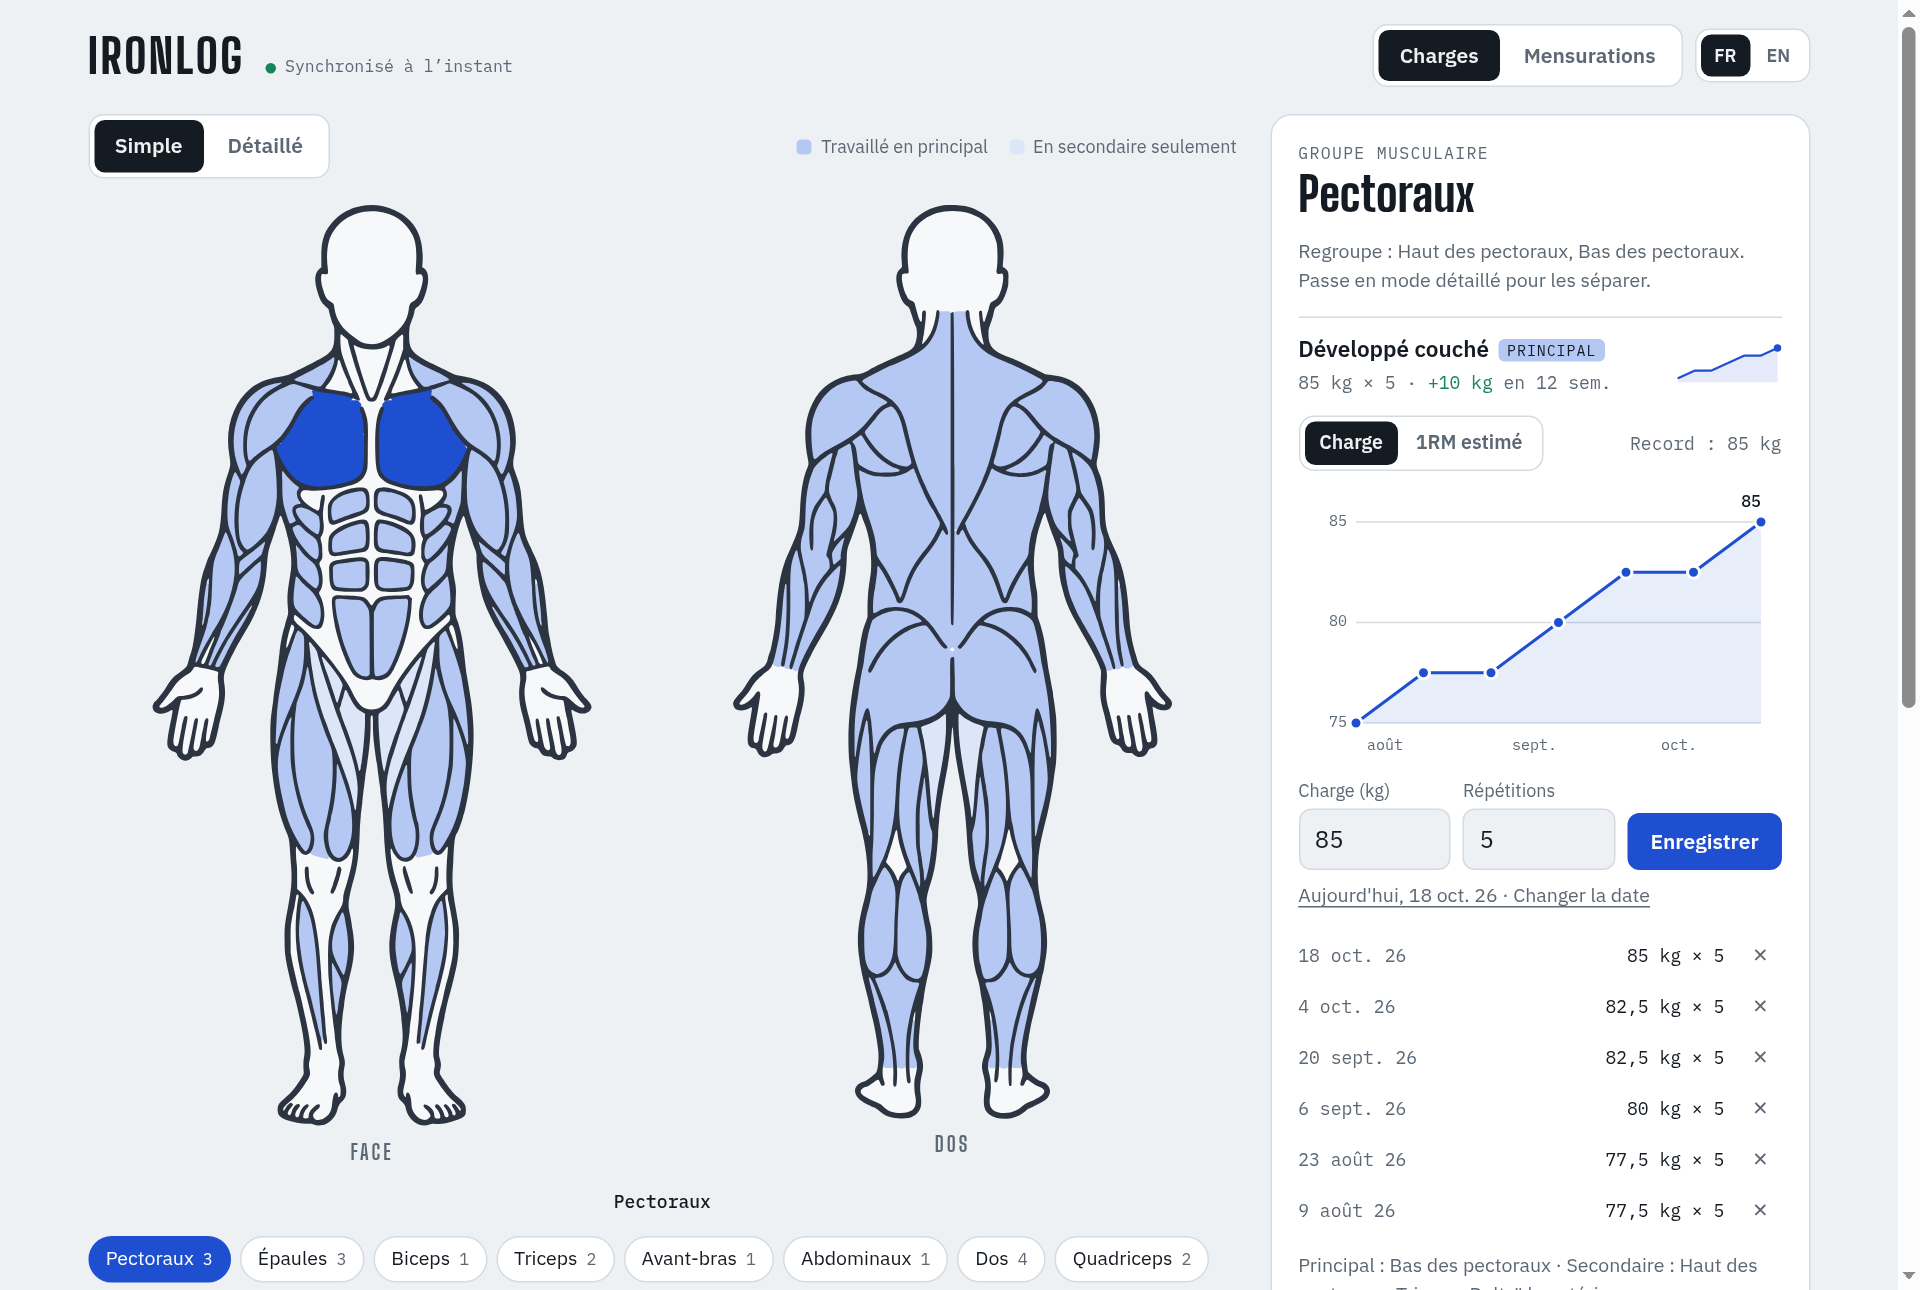
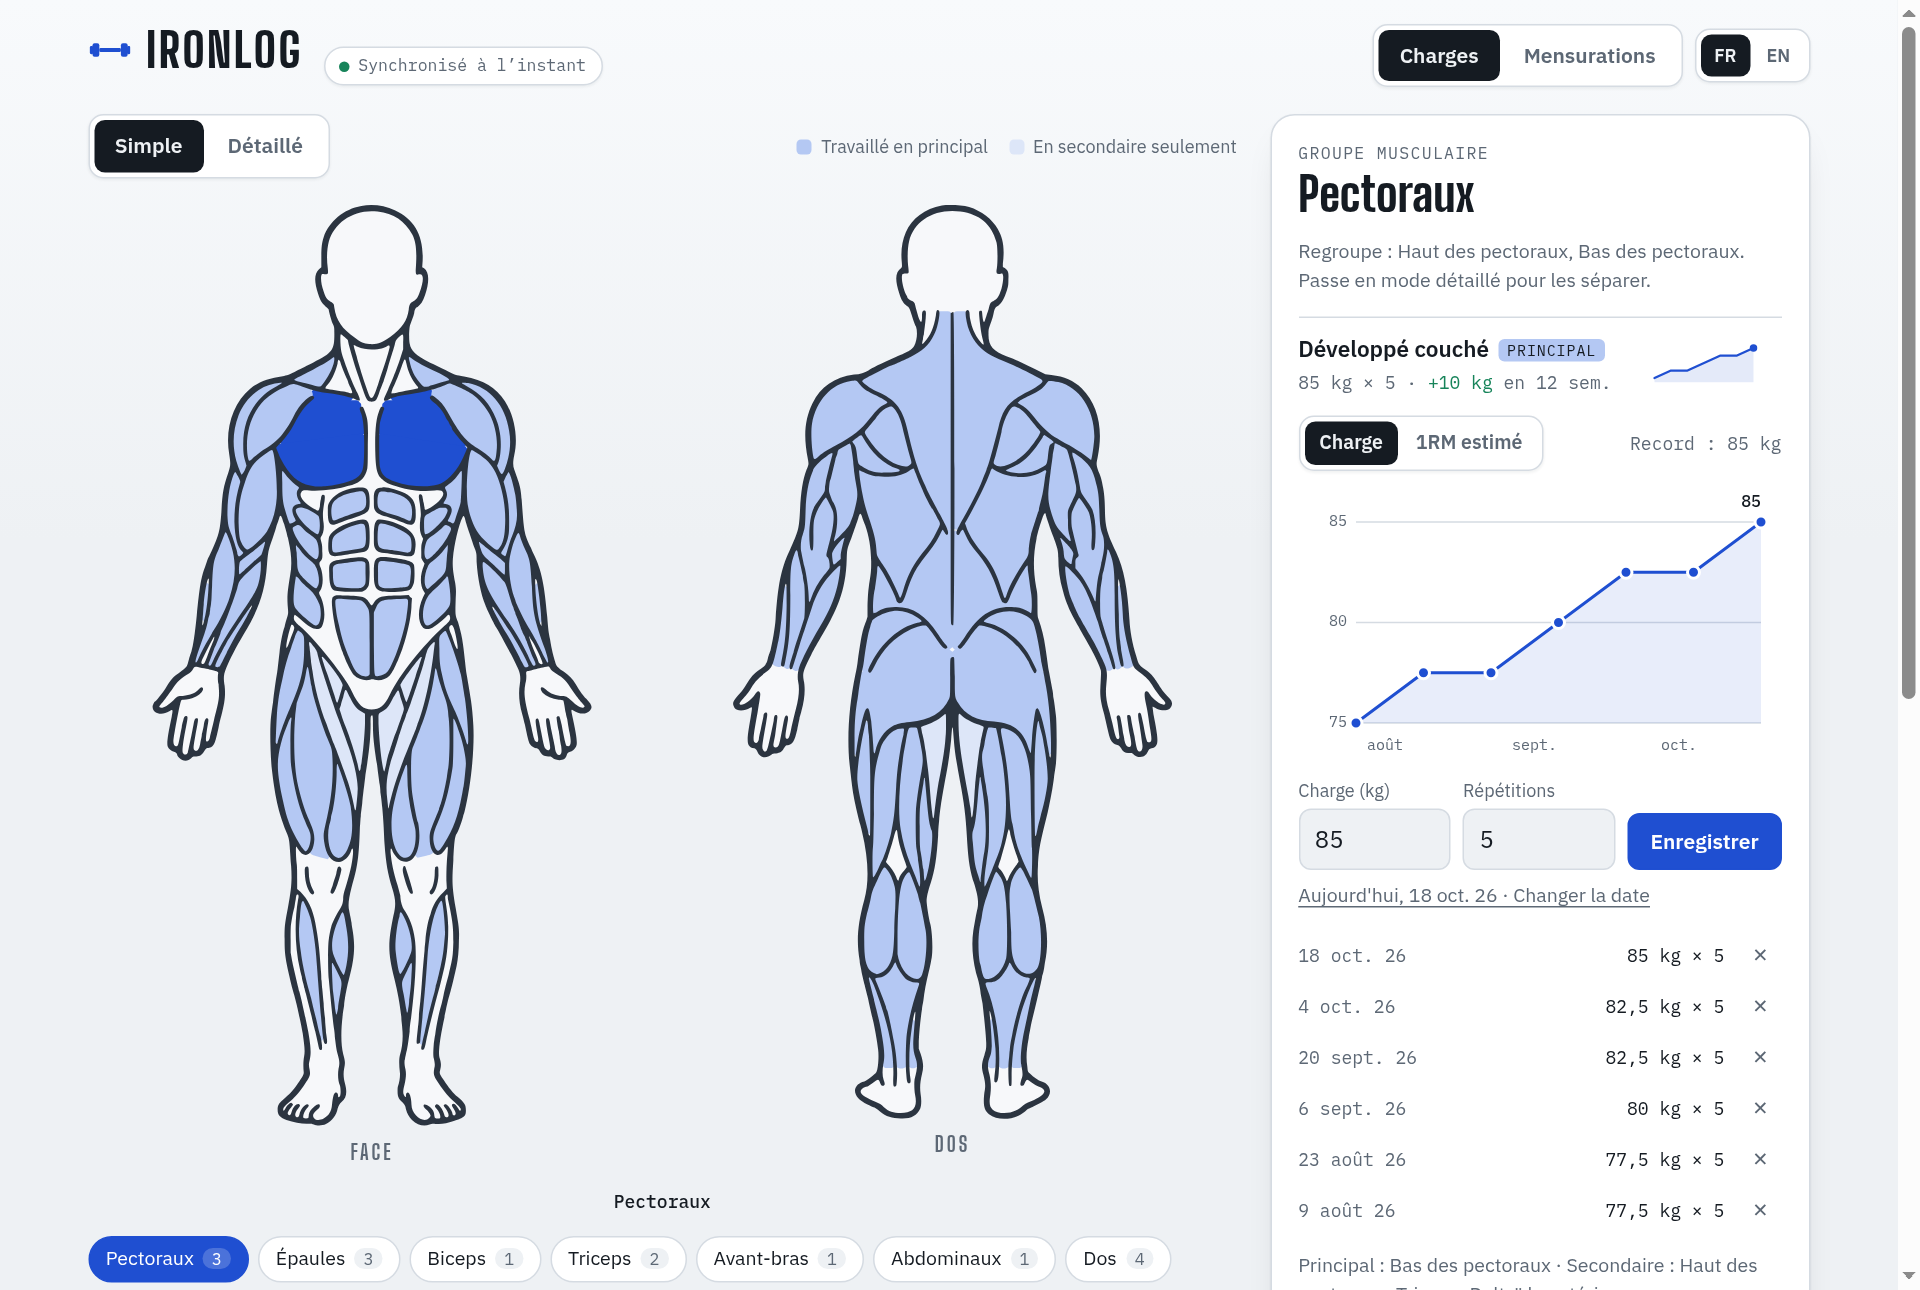
Interface : retouches visuelles, captures et visite animée
- Logo dans l'en-tête, pastille de synchronisation, compteurs en pastilles
- Ombres douces, fond légèrement dégradé, survols et états d'appui des boutons
- Lignes de la liste des mensurations : espacement corrigé
- Étiquettes des mensurations avec une ombre portée
- Ouverture d'un exercice avec un glissement doux
- Captures régénérées (charges et mensurations) et visite animée dans les deux README

Changed region(s): [[0.0938, 0.9612, 0.625, 0.9922], [0.0312, 0.0, 0.2812, 0.062], [0.8438, 0.2481, 0.9375, 0.3101]]

diff --git a/frontend/src/app.css b/frontend/src/app.css
@@ -16,6 +16,9 @@
   --good: #17845a;
   --warn: #a8670a;
   --danger: #c0352b;
+  --bg-glow: #f8fafc;
+  --shadow-sm: 0 1px 2px rgb(20 27 34 / 0.06);
+  --shadow-md: 0 10px 28px -14px rgb(20 27 34 / 0.2), 0 1px 2px rgb(20 27 34 / 0.05);
   --f-display: "Big Shoulders Display", "Arial Narrow", "Helvetica Neue", sans-serif;
   --f-body: "IBM Plex Sans", system-ui, -apple-system, "Segoe UI", sans-serif;
   --f-mono: "IBM Plex Mono", ui-monospace, "SFMono-Regular", Menlo, monospace;
@@ -26,6 +29,7 @@
     --bg: #0f141a; --surface: #18202a; --ink: #e7ecf2; --muted: #93a0af; --line: #2a3542;
     --body: #1b232d; --muscle: #212a35; --lineart: #a9b5c3; --m-s: #253247; --m-p: #2f4673; --hover: #5577c8;
     --accent: #6b95ff; --accent-ink: #0b1020; --good: #4cc38a; --warn: #f0b04a; --danger: #ff7a6e;
+    --bg-glow: #162029; --shadow-sm: 0 1px 2px rgb(0 0 0 / 0.35); --shadow-md: 0 12px 30px -14px rgb(0 0 0 / 0.7);
     color-scheme: dark;
   }
 }
@@ -33,12 +37,12 @@
 *, *::before, *::after { box-sizing: border-box; }
 [hidden] { display: none !important; }
 html { -webkit-text-size-adjust: 100%; }
-body { margin: 0; background: var(--bg); color: var(--ink); font-family: var(--f-body); font-size: 15px; line-height: 1.45; }
+body { margin: 0; background: linear-gradient(180deg, var(--bg-glow) 0, var(--bg) 360px), var(--bg); color: var(--ink); font-family: var(--f-body); font-size: 15px; line-height: 1.45; }
 :focus-visible { outline: 2px solid var(--accent); outline-offset: 2px; }
 button { font: inherit; color: inherit; }
 
 /* ----- Contrôles segmentés (onglets, modes) ----- */
-.seg { display: inline-flex; background: var(--surface); border: 1px solid var(--line); border-radius: 10px; padding: 3px; gap: 2px; }
+.seg { display: inline-flex; background: var(--surface); border: 1px solid var(--line); border-radius: 10px; padding: 3px; gap: 2px; box-shadow: var(--shadow-sm); }
 .seg button { border: 0; background: none; cursor: pointer; padding: 7px 14px; border-radius: 7px; font-weight: 600; font-size: 14px; color: var(--muted); }
 .seg.small button { padding: 5px 10px; font-size: 13px; }
 .seg button[aria-pressed="true"], .seg button[aria-selected="true"] { background: var(--ink); color: var(--bg); }
@@ -50,7 +54,7 @@ button { font: inherit; color: inherit; }
 
 /* ----- Panneau de détail ----- */
 .panel {
-  background: var(--surface); border: 1px solid var(--line); border-radius: 14px; padding: 18px;
+  background: var(--surface); border: 1px solid var(--line); border-radius: 16px; padding: 18px; box-shadow: var(--shadow-md);
   display: flex; flex-direction: column; gap: 14px; position: sticky; top: calc(16px + env(safe-area-inset-top, 0px)); min-width: 0;
 }
 @media (max-width: 820px) { .panel { position: static; } }
@@ -64,9 +68,11 @@ h3 { font-size: 12px; font-family: var(--f-mono); text-transform: uppercase; let
 .list { list-style: none; margin: 0; padding: 0; display: flex; flex-direction: column; }
 .list > li { border-top: 1px solid var(--line); }
 .row-btn {
-  width: 100%; border: 0; background: none; cursor: pointer; text-align: left; padding: 10px 0;
+  width: 100%; border: 0; background: none; cursor: pointer; text-align: left; padding: 10px 8px; margin: 0 -8px; border-radius: 10px;
+  transition: background .15s;
   display: grid; grid-template-columns: minmax(0, 1fr) auto; gap: 2px 12px; align-items: center;
 }
+.row-btn:hover { background: var(--bg); }
 .row-btn:hover .name { color: var(--accent); }
 .name { font-weight: 600; min-width: 0; overflow-wrap: anywhere; }
 .meta { font-family: var(--f-mono); font-size: 12px; color: var(--muted); font-variant-numeric: tabular-nums; }
@@ -86,8 +92,11 @@ input {
 .row2 { display: grid; grid-template-columns: 1fr 1fr; gap: 8px; }
 .row3 { display: grid; grid-template-columns: 1fr 1fr auto; gap: 8px; align-items: end; }
 .btns { display: flex; gap: 8px; flex-wrap: wrap; align-items: center; }
-.btn { cursor: pointer; border: 1px solid var(--accent); padding: 8px 14px; border-radius: 8px; background: var(--accent); color: var(--accent-ink); font-weight: 600; font-size: 14px; }
+.btn { cursor: pointer; border: 1px solid var(--accent); padding: 8px 14px; border-radius: 8px; background: var(--accent); color: var(--accent-ink); font-weight: 600; font-size: 14px; transition: filter .15s, transform .05s, border-color .15s; }
+.btn:hover { filter: brightness(1.07); }
+.btn:active { transform: translateY(1px); }
 .btn.ghost { background: transparent; color: var(--muted); border-color: var(--line); }
+.btn.ghost:hover { filter: none; color: var(--ink); border-color: var(--muted); }
 .btn.danger { background: transparent; color: var(--danger); border-color: var(--danger); }
 .linkish { font-size: 13px; background: none; border: 0; padding: 0; color: var(--muted); cursor: pointer; text-decoration: underline; text-underline-offset: 3px; justify-self: start; }
 .linkish.danger { color: var(--danger); }

diff --git a/frontend/src/App.svelte b/frontend/src/App.svelte
@@ -39,7 +39,7 @@
 <div class="app">
   <header class="top">
     <div class="brand">
-      <span class="mark">IRONLOG</span>
+      <span class="mark"><svg class="logo" viewBox="0 0 32 32" aria-hidden="true"><rect x="3" y="11" width="5" height="10" rx="1.5"/><rect x="24" y="11" width="5" height="10" rx="1.5"/><rect x="8" y="14.5" width="16" height="3" rx="1"/><rect x="1" y="13" width="2.5" height="6" rx="1"/><rect x="28.5" y="13" width="2.5" height="6" rx="1"/></svg>IRONLOG</span>
       <SyncStatus />
     </div>
     <div class="nav">
@@ -106,7 +106,8 @@
   .nav { display: flex; align-items: center; gap: 8px; flex-wrap: wrap; }
   .seg.small button { padding: 5px 9px; font-size: 12px; }
   .brand { display: flex; align-items: baseline; gap: 6px 14px; flex-wrap: wrap; }
-  .mark { font-family: var(--f-display); font-weight: 800; font-size: 32px; letter-spacing: 0.05em; line-height: 1; }
+  .mark { font-family: var(--f-display); font-weight: 800; font-size: 32px; letter-spacing: 0.05em; line-height: 1; display: inline-flex; align-items: center; gap: 10px; }
+  .logo { width: 0.9em; height: 0.9em; fill: var(--accent); flex: none; }
   .update {
     display: flex; align-items: center; justify-content: space-between; gap: 12px; flex-wrap: wrap;
     padding: 10px 14px; border: 1px solid var(--accent); border-radius: 10px; font-size: 14px;

diff --git a/frontend/src/views/Charges.svelte b/frontend/src/views/Charges.svelte
@@ -128,7 +128,9 @@
     cursor: pointer; font-size: 13px; padding: 5px 11px; border-radius: 999px;
     border: 1px solid var(--line); background: var(--surface); color: var(--ink);
   }
-  .chip .n { font-family: var(--f-mono); font-size: 11px; color: var(--muted); margin-left: 6px; }
+  .chip { transition: border-color .15s, background .15s; }
+  .chip:hover { border-color: var(--accent); }
+  .chip .n { font-family: var(--f-mono); font-size: 11px; color: var(--muted); margin-left: 6px; padding: 0 6px; border-radius: 999px; background: var(--bg); }
   .chip[aria-pressed='true'] { background: var(--accent); border-color: var(--accent); color: var(--accent-ink); }
-  .chip[aria-pressed='true'] .n { color: var(--accent-ink); }
+  .chip[aria-pressed='true'] .n { color: var(--accent-ink); background: rgb(255 255 255 / 0.2); }
 </style>

diff --git a/frontend/src/views/Mensurations.svelte b/frontend/src/views/Mensurations.svelte
@@ -346,7 +346,7 @@
   .lbl { cursor: ns-resize; outline: none; touch-action: none; }
   .lbl.draft { cursor: default; }
   svg.dragging, svg.dragging * { cursor: grabbing !important; }
-  .lbl rect { fill: var(--surface); stroke: var(--line); stroke-width: 0.8; }
+  .lbl rect { fill: var(--surface); stroke: var(--line); stroke-width: 0.8; filter: drop-shadow(0 1px 2px rgb(0 0 0 / 0.14)); }
   .lbl:focus-visible rect { stroke: var(--accent); stroke-width: 2; }
   .lbl.on rect { stroke: var(--accent); stroke-width: 1.6; }
   .lbl.draft rect { stroke: var(--accent); stroke-dasharray: 3 2; }

diff --git a/frontend/src/views/ExerciseRow.svelte b/frontend/src/views/ExerciseRow.svelte
@@ -1,4 +1,5 @@
 <script lang="ts">
+  import { slide } from 'svelte/transition'
   import DateField from '../lib/DateField.svelte'
   import LineChart from '../lib/LineChart.svelte'
   import Sparkline from '../lib/Sparkline.svelte'
@@ -104,7 +105,7 @@
   </button>
 
   {#if open}
-    <div class="detail">
+    <div class="detail" transition:slide={{ duration: 180 }}>
       {#if chart.length}
         <div class="chart-head">
           <div class="seg small" role="group" aria-label={t('row.ariaValue')}>

diff --git a/frontend/src/views/MeasurePanel.svelte b/frontend/src/views/MeasurePanel.svelte
@@ -141,7 +141,7 @@
               <div class="name">{x.name}</div>
               <Sparkline values={x.log.map((l) => l.value)} width={64} height={24} />
               <div class="meta">
-                {lv ? `${fmt(lv.value)} cm` : '—'}{#if x.log.length > 1} · {signed(lv!.value - x.log[0].value)} cm{/if}
+                {lv ? `${fmt(lv.value)} cm` : '—'}{#if x.log.length > 1}{' · '}{signed(lv!.value - x.log[0].value)} cm{/if}
               </div>
             </button>
           </li>

diff --git a/frontend/src/views/SyncStatus.svelte b/frontend/src/views/SyncStatus.svelte
@@ -59,6 +59,7 @@
 <style>
   .sync {
     display: inline-flex; align-items: center; gap: 6px; flex-wrap: wrap;
+    padding: 4px 10px 4px 9px; border: 1px solid var(--line); border-radius: 999px; background: var(--surface); box-shadow: var(--shadow-sm);
     font-family: var(--f-mono); font-size: 11px; color: var(--muted);
   }
   .sync .linkish { font-family: var(--f-body); font-size: 12px; }

diff --git a/README.fr.md b/README.fr.md
@@ -20,6 +20,12 @@ Suis tes charges et tes mensurations sur un schéma du corps cliquable. Installa
   <img src="docs/mobile-fr.png" alt="Ironlog sur téléphone : le schéma du corps et le panneau d'exercice" width="240">
 </p>
 
+<p align="center">
+  <img src="docs/tour-fr.gif" alt="Visite d'Ironlog : charges avec graphe de progression, puis vue d'ensemble des mensurations, puis historique d'une mesure" width="820">
+  <br>
+  <sub>Visite : charges et leur graphe → vue d'ensemble des mensurations → historique d'une mesure.</sub>
+</p>
+
 ## Fonctionnalités
 
 **Charges**

diff --git a/README.md b/README.md
@@ -20,6 +20,12 @@ Track your lifts and body measurements on a clickable body map. Installable on y
   <img src="docs/mobile-en.png" alt="Ironlog on a phone: the body map and the exercise panel" width="240">
 </p>
 
+<p align="center">
+  <img src="docs/tour-en.gif" alt="Ironlog tour: loads with progress chart, then the measurements overview, then the history of one measurement" width="820">
+  <br>
+  <sub>Tour: loads and their progress chart → measurements overview → history of one measurement.</sub>
+</p>
+
 ## Features
 
 **Loads**
